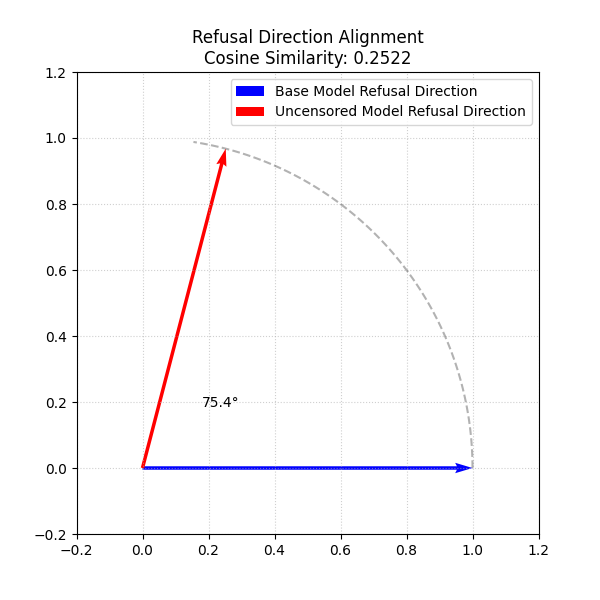
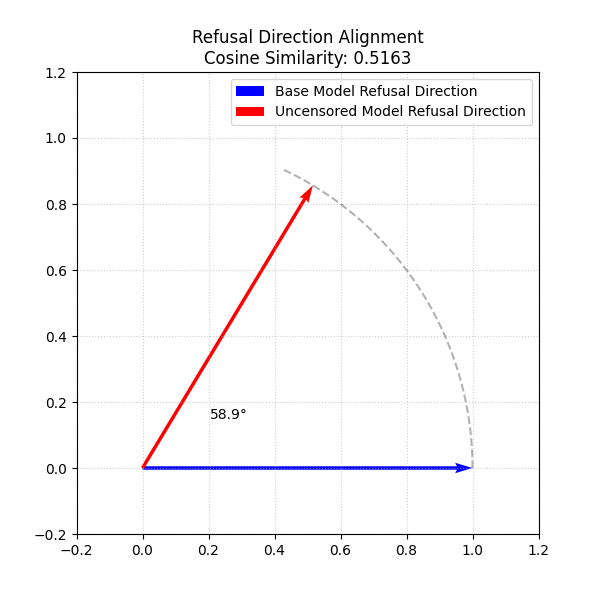
optimised refusal dir to be 0.5

diff --git a/extract_new_refusal.py b/extract_new_refusal.py
@@ -53,8 +53,9 @@ def main():
     model_path = "spkgyk/Yi-6B-Chat-uncensored"
     N_INST_TRAIN = 260 # specifies the number of instruction-response pairs (prompts) to sample from the dataset to compute the refusal direction. (1 -> 260)
     COMPLETION_PERCENTAGE = 100 # Percentage of prompts to generate completions for. (1 -> 100), only controls the direction extraction phase
+    GENERATE_COMPLETIONS = False  # Whether to generate completions after extracting refusal direction
     target_layer = 20
-    target_pos_idx = -5 # The position index in the list of positions passed to get_mean_diff
+    target_pos_idx = 0 # The position index in the list of positions passed to get_mean_diff
     
     print(f"Loading model: {model_path}")
     model_base = construct_model_base(model_path)
@@ -82,7 +83,7 @@ def main():
         harmless_instructions=harmless_inst_train,
         tokenize_instructions_fn=model_base.tokenize_instructions_fn,
         block_modules=model_base.model_block_modules,
-        positions=[-1],
+        positions=[-5],
         batch_size=8
     )
     
@@ -104,12 +105,16 @@ def main():
     
     torch.save(refusal_dir_normalized, direction_path)
     
-    # Metadata: pos is -1 (last token)
+    # Metadata: pos is -5 (5th from last token, matching base model)
     with open(metadata_path, 'w') as f:
-        json.dump({"layer": target_layer, "pos": -1}, f, indent=4)
+        json.dump({"layer": target_layer, "pos": -5}, f, indent=4)
         
     print(f"Saved direction to {direction_path}")
     print(f"Saved metadata to {metadata_path}")
+
+    if not GENERATE_COMPLETIONS:
+        print("Skipping completion generation (GENERATE_COMPLETIONS=False)")
+        return
 
     # Clear memory before generation
     gc.collect()
